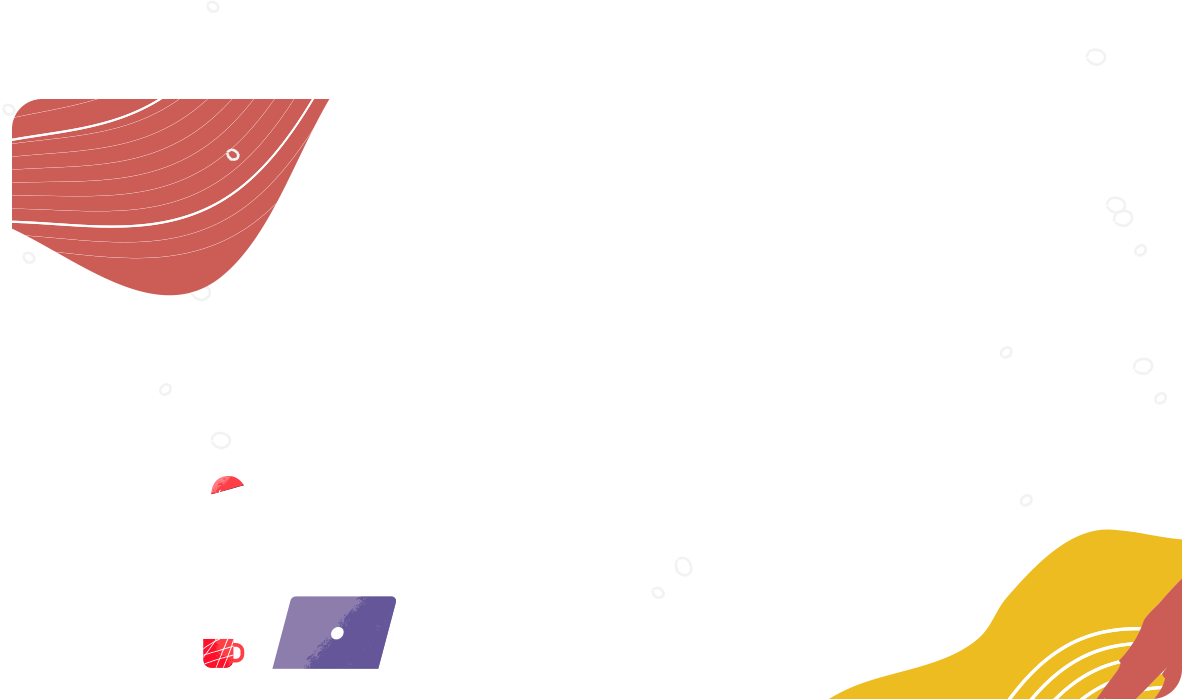
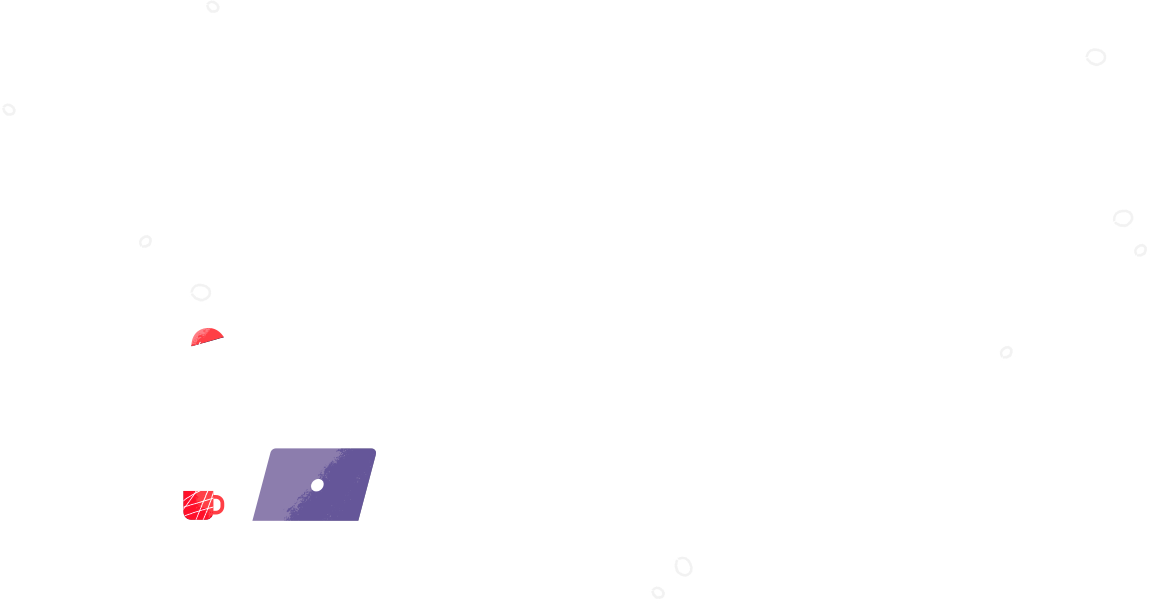
ok

diff --git a/index.html b/index.html
@@ -24,7 +24,7 @@
           <div class="header__logo">
             <img src="./app/img/logo.png" alt="" />
           </div>
-          <nav class="header__menu">
+          <nav class="header__menu hide-for-mobile">
             <ul>
               <li><a href="#">Home</a></li>
               <li><a href="#">About Us</a></li>
@@ -110,7 +110,8 @@
               <a href="#" class="btn">Get Started</a>
             </div>
             <div class="about__image">
-              <img src="./app/img/about/3.png" class="about__img" alt="" />
+              <img src="./app/img/about/1.png" class="about__img" alt="" />
+              <img src="./app/img/about/2.png" class="about__img2" alt="" />
             </div>
           </div>
         </section>
@@ -240,6 +241,21 @@
               <p class="name">Judie Lipsy</p>
             </div>
             <!-- item -->
+          </div>
+        </section>
+
+        <section class="start">
+          <div class="container">
+            <div class="start__main">
+              <!-- <img src="./app/img/start/1.png" class="start__img-1" alt="" />
+              <img src="./app/img/start/2.png" class="start__img-2" alt="" /> -->
+              <h2>Let's Get Started</h2>
+              <p>
+                Start using our easy-to-use tools with multiple options to
+                improve.
+              </p>
+              <a href="#" class="btn btn--big">Let's start now</a>
+            </div>
           </div>
         </section>
       </main>

diff --git a/app/scss/globals/typography.scss b/app/scss/globals/typography.scss
@@ -19,49 +19,6 @@ select {
   border: 0;
 }
 
-//////////////////////// design
-//Montserrat:wght@600&
-//family=Open+Sans:wght@400;700&
-//family=Raleway:wght@600;700;800&
-
-
-
-
-
-// .start {
-//   .t1 {
-//     font-size: 60px;
-//     font-family: "Raleway";
-//     color: rgb(255, 255, 255);
-//     font-weight: bold;
-//     line-height: 1.267;
-//   }
-//   .t2 {
-//     font-size: 24px;
-//     font-family: "OpenSans";
-//     color: rgb(160, 168, 181);
-//     line-height: 1.5;
-//   }
-// }
-
-// .footer {
-//   .t1 {
-//     font-size: 18px;
-//     font-family: "Raleway";
-//     color: rgb(255, 255, 255);
-//     font-weight: bold;
-//     line-height: 1.278;
-//   }
-//   .t2 {
-//     font-size: 16px;
-//     font-family: "OpenSans";
-//     color: rgb(160, 168, 181);
-//     line-height: 1.875;
-//   }
-// }
-
-////////////////////////////////// end design
-
 /* Chỉ cho phép textarea được kéo dãn theo chiều dọc, trông sẽ đẹp hơn, không làm xấu layout */
 textarea {
   resize: vertical;
@@ -140,4 +97,8 @@ a:hover {
   font-weight: 700;
   line-height: 1.2;
   padding: rem(20) rem(70);
+  &--big {
+    font-size: rem(24);
+    padding: rem(33) rem(76);
+  }
 }

diff --git a/app/scss/components/about.scss b/app/scss/components/about.scss
@@ -4,27 +4,41 @@
   .container {
     display: flex;
     align-items: center;
-    gap: 0 rem(100);
+    justify-content: space-between;
+    gap: rem(100);
+    @include breakpoint-down(medium) {
+      flex-direction: column;
+      justify-content: center;
+    }
   }
+
   &__left {
     max-width: rem(470);
+    @include breakpoint-down(medium) {
+      text-align: center;
+    }
     a {
       margin-top: mb(65, 1.889, 18, 0, 0);
     }
   }
+
   &__image {
     position: relative;
     max-width: rem(600);
-    // &::after {
-    //   content: "";
-    //   position: absolute;
-    //   background-image: url(../../../app/img/about/4.png);
-    //   background-repeat: no-repeat;
-    //   background-position: center;
-    //   background-size: contain;
-    //   bottom: 0;
-    //   left: 0;
-    //   min-height: 100px;
-    // }
+
+    @include breakpoint-down(medium) {
+      text-align: center;
+      max-width: none;
+    }
+    @include breakpoint-down(small) {
+      display: none;
+    }
+  }
+
+  &__img {
+    left: 48%;
+    position: absolute;
+    top: 54%;
+    transform: translate(-50%, -50%);
   }
 }

diff --git a/app/scss/components/features.scss b/app/scss/components/features.scss
@@ -6,13 +6,46 @@
     justify-content: space-between;
     align-items: center;
     gap: 0 rem(30);
+
+    @include breakpoint-down(small) {
+      //check
+      display: grid;
+      justify-content: flex-start;
+      grid-auto-columns: 150px;
+      grid-auto-flow: column;
+      gap: 1.5rem;
+      overflow: auto;
+      overflow-y: hidden;
+      scroll-snap-type: x mandatory;
+      scroll-snap-stop: always;
+      touch-action: manipulation;
+      -webkit-overflow-scrolling: touch;
+      scroll-padding: 1rem;
+      grid-template-columns: unset;
+
+      &::-webkit-scrollbar {
+        display: none;
+        width: 0;
+      }
+
+      & > * {
+        scroll-snap-align: start;
+      }
+    }
   }
+
   &__item {
     flex-basis: calc(100% / 3);
     text-align: center;
     padding: rem(75) rem(42) rem(70);
     border-radius: rem(10);
     background-color: rgb(43, 49, 57);
+  
+    img {
+      @include breakpoint-down(small) {
+        width: 30px;
+      }
+    }
     h3 {
       margin-top: mb(42, 0, 0, 1.591, 22);
       font-size: rem(22);

diff --git a/app/scss/components/start.scss b/app/scss/components/start.scss
@@ -1,3 +1,51 @@
 @use "../utils" as *;
 
-.start{}
+.start {
+  transform: translateY(45%);
+  //   &__img-1,
+  //   &__img-2 {
+  //     position: absolute;
+  //     object-fit: contain;
+  //     object-position: center;
+  //     pointer-events: none;
+  //   }
+
+  //   &__img-1 {
+  //     // top: -20%;
+  //     top: 0;
+  //     left: 0;
+  //   }
+
+  //   &__img-2 {
+  //     display: none;
+  //   }
+
+  &__main {
+    text-align: center;
+    position: relative;
+    padding: rem(145) rem(325);
+    border-radius: rem(30);
+    background: url("../../app/img/start/1.png") no-repeat cover/100%;
+    background-color: rgb(30, 36, 46);
+    z-index: 9;
+    
+
+    h2 {
+      font-size: rem(60);
+      font-weight: 700;
+      line-height: 1.267;
+    }
+
+    p {
+      font-size: rem(24);
+      font-family: var(--f-open);
+      color: rgb(160, 168, 181);
+      line-height: 1.5;
+      margin-top: mb(60, 1.267, 60, 1.5, 24);
+    }
+
+    a.btn.btn--big {
+      margin-top: mb(65, 1.5, 24, 0, 0);
+    }
+  }
+}

diff --git a/app/scss/globals/layouts.scss b/app/scss/globals/layouts.scss
@@ -18,6 +18,14 @@
   &--supper {
     padding-top: rem(280);
     padding-bottom: rem(390);
+    @include breakpoint-down(medium) {
+      padding-top: rem(150);
+      padding-bottom: rem(250);
+    }
+    @include breakpoint-down(small) {
+      padding-top: rem(50);
+      padding-bottom: rem(100);
+    }
   }
   // &--big {
   //   padding-top: rem(200);
@@ -26,9 +34,23 @@
   &--small {
     padding-top: rem(150);
     padding-bottom: rem(200);
+    // @include breakpoint-down(medium) {
+    //   padding-top: rem(75);
+    //   padding-bottom: rem(100);
+    // }
+    // @include breakpoint-down(small) {
+    //   padding-top: rem(50);
+    //   padding-bottom: rem(66.6666667);
+    // }
   }
   &--bt {
     padding-bottom: rem(200);
+    @include breakpoint-down(medium) {
+      padding-bottom: rem(100);
+    }
+    @include breakpoint-down(small) {
+      padding-bottom: rem(66.6666667);
+    }
   }
 
   //   &--pall {

diff --git a/app/scss/globals/base.scss b/app/scss/globals/base.scss
@@ -1,3 +1,5 @@
+@use "../utils" as *;
+
 *,
 *::after,
 *::before {
@@ -13,6 +15,13 @@ html {
   scroll-behavior: smooth;
   //   font-size: 62.5%; //1 rem = 10px; 10px/16px = 62.5%
 
+  @include breakpoint-down(medium) {
+    font-size: 56.25%;
+  }
+
+  @include breakpoint-down(small) {
+    font-size: 31.25%;
+  }
   // @include respond(tab-land) {
   //   // width < 992px?
   //   font-size: percent(9); //1 rem = 9px, 9/16 = 5625

diff --git a/app/scss/components/parner.scss b/app/scss/components/parner.scss
@@ -16,7 +16,9 @@
     display: grid;
     place-items: center;
     flex-basis: calc((100% - (3 * 30 * 0.0625rem)) / 4);
-    height: rem(180);
+    @include breakpoint-down(medium) {
+      flex-basis: calc((100% - (3 * 30 * 0.0625rem)) / 2);
+    }
     border-radius: rem(10);
     background-color: rgb(43, 49, 57);
   }

diff --git a/app/scss/components/hero.scss b/app/scss/components/hero.scss
@@ -23,6 +23,11 @@
     align-items: center;
     gap: 0 rem(30);
     margin-top: mb(60, 1.2, 40, 1.2, 18);
+    img {
+      @include breakpoint-down(small) {
+        width: 20px;
+      }
+    }
     p {
       font-size: rem(18);
       font-family: var(--f-open);

diff --git a/app/scss/components/header.scss b/app/scss/components/header.scss
@@ -26,5 +26,8 @@
     display: flex;
     align-items: center;
     gap: 0 rem(70);
+    img {
+      width: 30px;
+    }
   }
 }

diff --git a/app/scss/components/testimonials.scss b/app/scss/components/testimonials.scss
@@ -66,4 +66,3 @@
     }
   }
 }
-//670 600
